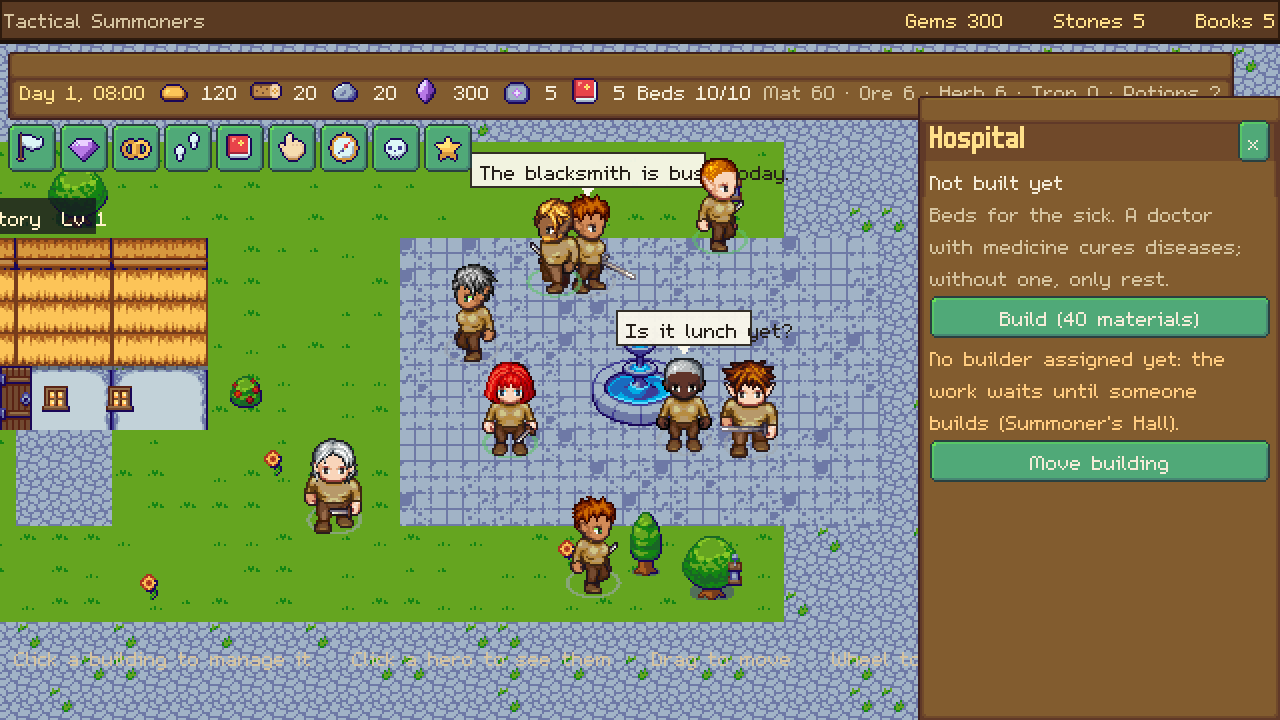
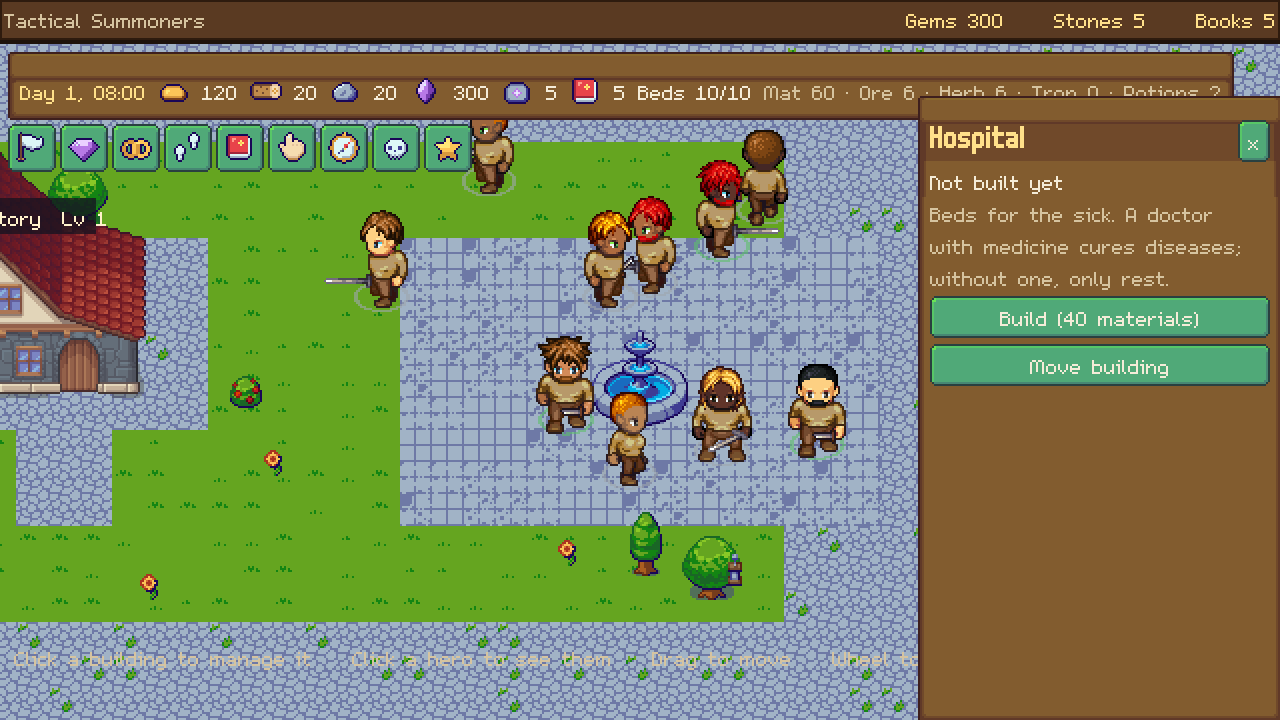
Town: buildings drawn from the packs' baked exteriors (smithy, chapel, home, temple)

diff --git a/tools/bake_tmx.py b/tools/bake_tmx.py
@@ -27,6 +27,14 @@ MAPS = {  # output name -> (zip pattern, tmx path)
     'temple_interior': ('ruined-temple', 'Tiled_files/Ruined_temple_interior.tmx'),
     'temple_exterior': ('ruined-temple', 'Tiled_files/Ruined_temple_exterior.tmx'),
 }
+## Buildings alone (for the town): only the layers whose name matches, ground excluded.
+BUILDINGS = {
+    'bld_smithy': ('glassblowers-workshop', 'Tiled_files/Exterior.tmx', r'(?i)^(tent_shadow|supplies|tent|sign|walls|windows_top|roof|stovepipe|roof_detail|barrel|cart)$'),
+    'bld_chapel': ('free-chapel', 'Tiled_files/Exterior.tmx', r'(?i)^(house)$'),
+    'bld_home': ('main-characters-home', 'Tiled_files/Exterior.tmx', r'(?i)^(house_wall|windows1|windows2|house_roof)$'),
+    'bld_temple': ('ruined-temple', 'Tiled_files/Ruined_temple_exterior.tmx', r'(?i)^(house_platform|house|bricks|roof|statues|columns)$'),
+}
+ONLY = None
 FLIP_H, FLIP_V, FLIP_D = 0x80000000, 0x40000000, 0x20000000
 
 
@@ -118,6 +126,8 @@ def tile_img(tiles, gid):
 def collect(parent, tiles, tw, th, w, draws):
     """Appends (x px, y px, image) in drawing order."""
     for el in parent:
+        if el.tag in ('layer', 'objectgroup') and ONLY and not re.search(ONLY, el.get('name') or ''):
+            continue
         if el.get('visible') == '0' or re.search(r'(?i)charact|people|npc|citizen|customer', el.get('name') or ''):
             continue                                      # the pack's own characters: our heroes go there
         if el.tag == 'group':
@@ -166,6 +176,13 @@ def bake(name, pat, tmx):
 
 
 if __name__ == '__main__':
+    for name, (pat, tmx, only) in BUILDINGS.items():
+        ONLY = only
+        try:
+            print('RESULT', name, bake(name, pat, tmx))
+        except Exception as e:
+            print('FAILED', name, type(e).__name__, str(e)[:120])
+    ONLY = None
     for name, (pat, tmx) in MAPS.items():
         try:
             print('RESULT', name, bake(name, pat, tmx))
